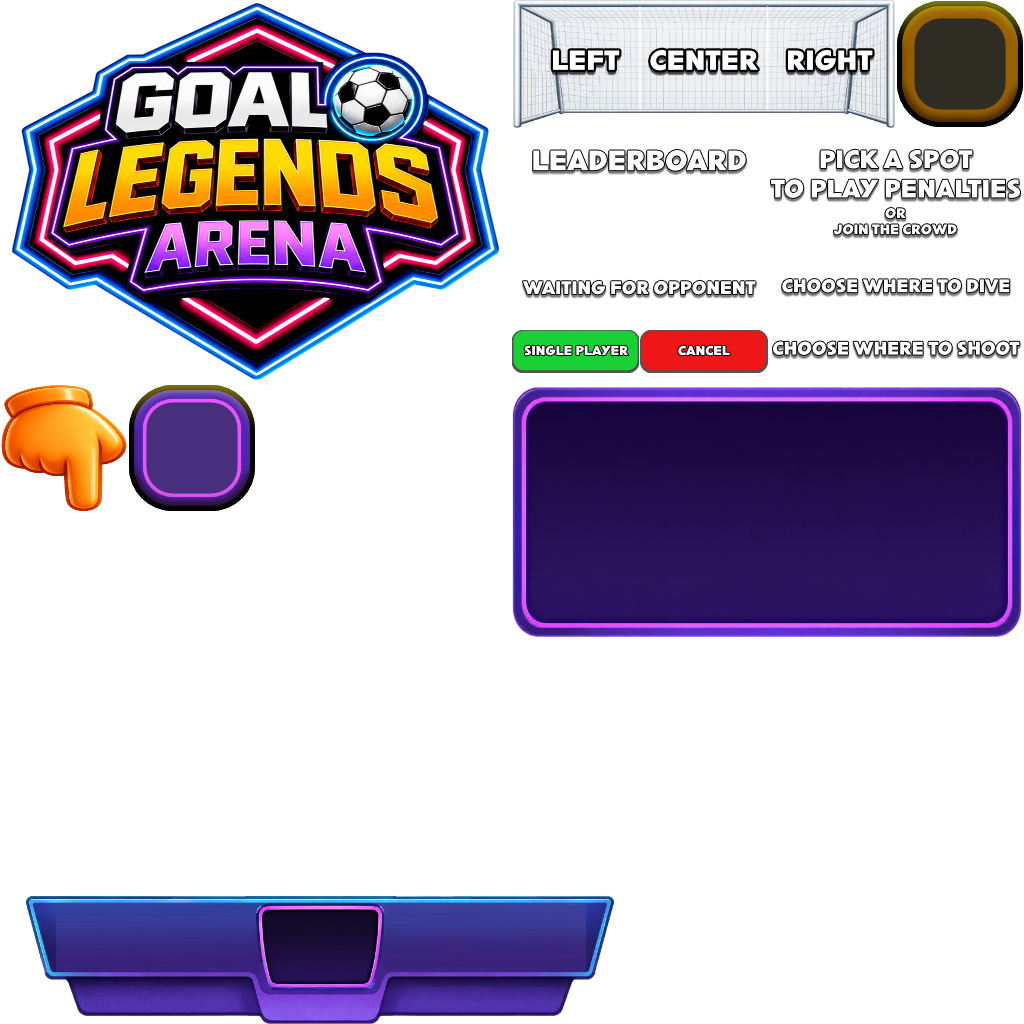
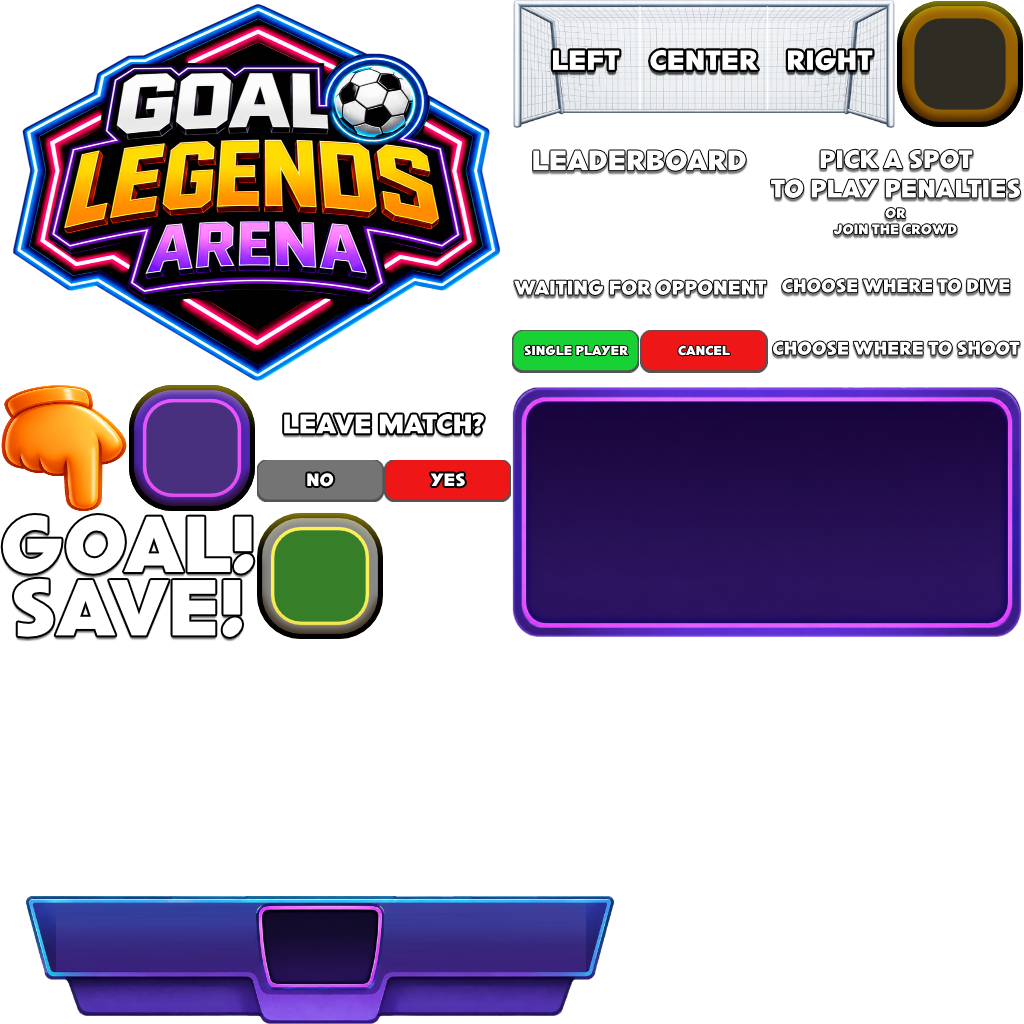
Improve "Goal/Save" sreens

Changed region(s): [[0.0, 0.0, 0.5, 0.375], [0.0, 0.4062, 0.5, 0.625], [0.5, 0.25, 0.75, 0.3125]]

diff --git a/src/client/uiManager.tsx b/src/client/uiManager.tsx
@@ -51,7 +51,10 @@ import {
   countryPickerFrameSliceBackground,
   leaveMatchTitleBackground,
   leaveMatchNoButtonBackground,
-  leaveMatchYesButtonBackground
+  leaveMatchYesButtonBackground,
+  goalSaveFrameSliceBackground,
+  goalSaveGoalBannerBackground,
+  goalSaveSaveBannerBackground
 } from './uiAtlasStore'
 
 /**
@@ -527,6 +530,14 @@ const lbRows = getLeaderboardRows(s.leaderboardJson, LEADERBOARD_TOP_N)
   const leaveConfirmTitleH = Math.floor(leaveConfirmTitleW / 4)
   const leaveConfirmPadY = cpSlicePx + 8
   const leaveConfirmPadX = cpSlicePx + 36
+  const resultIsGoal = s.resultLine.startsWith('GOAL')
+  const resultSlicePx = Math.floor(cpSlicePx / 2)
+  const resultInset = resultSlicePx - cpSliceOverlap
+  const resultBannerW = isMobile() ? 240 : 280
+  const resultBannerH = Math.floor(resultBannerW / 4)
+  const resultPadY = Math.floor((cpSlicePx + 12) / 2)
+  const resultPadX = Math.floor((cpSlicePx + 28) / 2)
+  const resultPanelW = resultBannerW + 2 * resultPadX
   const countryConfirmFlagW = FLAG_PICKER_BTN_W * 2
   const countryConfirmFlagH = FLAG_PICKER_BTN_H * 2
   const cfPanelWidthPx = countryConfirmFlagW + 2 * (cpSlicePx + 40)
@@ -1732,6 +1743,7 @@ const lbRows = getLeaderboardRows(s.leaderboardJson, LEADERBOARD_TOP_N)
         <UiEntity
           uiTransform={{
             positionType: 'absolute',
+            position: { top: 0, left: 0 },
             width: '100%',
             height: '100%',
             display: 'flex',
@@ -1744,20 +1756,94 @@ const lbRows = getLeaderboardRows(s.leaderboardJson, LEADERBOARD_TOP_N)
         >
           <UiEntity
             uiTransform={{
-              padding: 22,
-              maxWidth: 900,
-              display: 'flex',
-              flexDirection: 'column',
-              alignItems: 'center'
+              positionType: 'relative',
+              width: resultPanelW
             }}
-            uiBackground={{ color: Color4.create(0, 0, 0, 0.90) }}
           >
-            <Label
-              value={s.resultLine.split('\n')[0] || ''}
-              fontSize={fs(60)}
-              color={s.resultLine.startsWith('GOAL') ? Color4.create(1, 0.9, 0.1, 1) : Color4.create(0.4, 0.8, 1, 1)}
-              textAlign="middle-center"
-            />
+            <UiEntity
+              uiTransform={{
+                positionType: 'absolute',
+                position: { top: 0, left: 0, right: 0, bottom: 0 },
+                zIndex: 0
+              }}
+            >
+              <UiEntity
+                uiTransform={{
+                  positionType: 'absolute',
+                  position: { top: resultInset, bottom: resultInset, left: resultInset, right: resultInset }
+                }}
+                uiBackground={goalSaveFrameSliceBackground(5)}
+              />
+              <UiEntity
+                uiTransform={{ positionType: 'absolute', position: { top: 0, left: 0 }, width: resultSlicePx, height: resultSlicePx }}
+                uiBackground={goalSaveFrameSliceBackground(1)}
+              />
+              <UiEntity
+                uiTransform={{ positionType: 'absolute', position: { top: 0, right: 0 }, width: resultSlicePx, height: resultSlicePx }}
+                uiBackground={goalSaveFrameSliceBackground(3)}
+              />
+              <UiEntity
+                uiTransform={{ positionType: 'absolute', position: { bottom: 0, left: 0 }, width: resultSlicePx, height: resultSlicePx }}
+                uiBackground={goalSaveFrameSliceBackground(7)}
+              />
+              <UiEntity
+                uiTransform={{ positionType: 'absolute', position: { bottom: 0, right: 0 }, width: resultSlicePx, height: resultSlicePx }}
+                uiBackground={goalSaveFrameSliceBackground(9)}
+              />
+              <UiEntity
+                uiTransform={{
+                  positionType: 'absolute',
+                  position: { top: 0, left: resultInset, right: resultInset },
+                  height: resultSlicePx
+                }}
+                uiBackground={goalSaveFrameSliceBackground(2)}
+              />
+              <UiEntity
+                uiTransform={{
+                  positionType: 'absolute',
+                  position: { bottom: 0, left: resultInset, right: resultInset },
+                  height: resultSlicePx
+                }}
+                uiBackground={goalSaveFrameSliceBackground(8)}
+              />
+              <UiEntity
+                uiTransform={{
+                  positionType: 'absolute',
+                  position: { top: resultInset, bottom: resultInset, left: 0 },
+                  width: resultSlicePx
+                }}
+                uiBackground={goalSaveFrameSliceBackground(4)}
+              />
+              <UiEntity
+                uiTransform={{
+                  positionType: 'absolute',
+                  position: { top: resultInset, bottom: resultInset, right: 0 },
+                  width: resultSlicePx
+                }}
+                uiBackground={goalSaveFrameSliceBackground(6)}
+              />
+            </UiEntity>
+            <UiEntity
+              uiTransform={{
+                positionType: 'relative',
+                width: '100%',
+                display: 'flex',
+                flexDirection: 'column',
+                alignItems: 'center',
+                padding: {
+                  top: resultPadY,
+                  bottom: resultPadY,
+                  left: resultPadX,
+                  right: resultPadX
+                },
+                zIndex: 1
+              }}
+            >
+              <UiEntity
+                uiTransform={{ width: resultBannerW, height: resultBannerH }}
+                uiBackground={resultIsGoal ? goalSaveGoalBannerBackground() : goalSaveSaveBannerBackground()}
+              />
+            </UiEntity>
           </UiEntity>
         </UiEntity>
       )}

diff --git a/src/client/uiAtlasStore.ts b/src/client/uiAtlasStore.ts
@@ -215,6 +215,23 @@ export function leaveMatchYesButtonBackground() {
   return uiAtlasRangeHalfBackground('D4', 'D4', false)
 }
 
+/** Goal/Save result panel frame: cell C5 of 8×8 UI_atlas. */
+export const GOAL_SAVE_FRAME_CELL = 'C5'
+
+export function goalSaveFrameSliceBackground(ninth: 1 | 2 | 3 | 4 | 5 | 6 | 7 | 8 | 9) {
+  return atlasCellFrameSliceBackground(GOAL_SAVE_FRAME_CELL, ninth)
+}
+
+/** GOAL — top half of UI_atlas A5–B5. */
+export function goalSaveGoalBannerBackground() {
+  return uiAtlasRangeHalfBackground('A5', 'B5', true)
+}
+
+/** SAVE — bottom half of UI_atlas A5–B5. */
+export function goalSaveSaveBannerBackground() {
+  return uiAtlasRangeHalfBackground('A5', 'B5', false)
+}
+
 /** Width/height of the scoreboard bg sprite (A8–F8 = 6×1 cells). */
 export function scoreboardAtlasAspect(): number {
   const a = parseAtlasCell(SCOREBOARD_BG_FROM)
